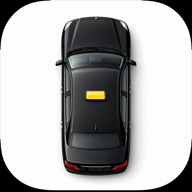
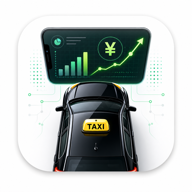
feat: アイコンを #2 採用 (黒タクシー+デジタルダッシュボード+¥/グラフ)
run-ai-images skillで再生成した4枚から #2 を選択。
スマホ風UI(円グラフ+棒グラフ+上昇トレンド+¥)が日報/分析を表現、
下部に黒タクシー上面図、UIグリッド線でデジタル感。
sw.js: cache v26

diff --git a/sw.js b/sw.js
@@ -1,4 +1,4 @@
-const CACHE_NAME = 'taxi-daily-v25';
+const CACHE_NAME = 'taxi-daily-v26';
 const STATIC_FILES = [
   './',
   './index.html',
